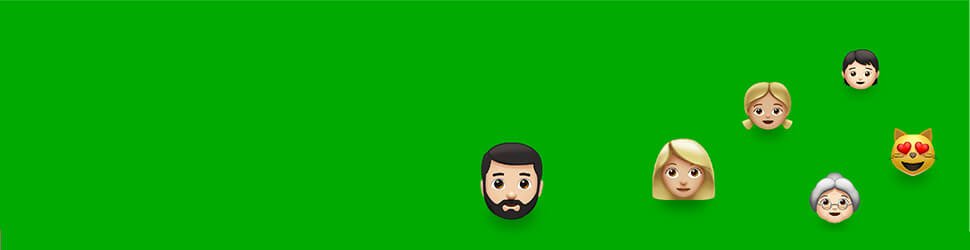
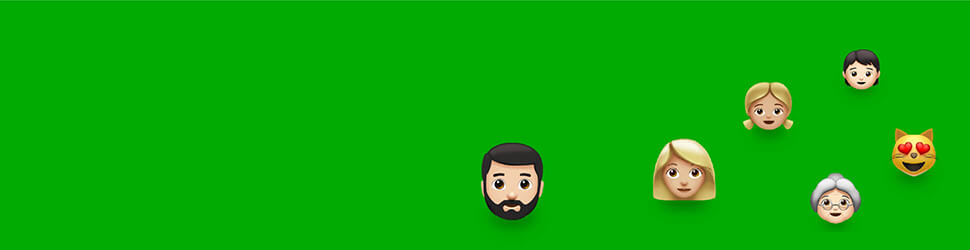
limit bg to 970, min images

diff --git a/src/components/banner/_banner.sass b/src/components/banner/_banner.sass
@@ -18,7 +18,13 @@
     max-width: 970px
 
   &__background-image
-    position: absolute 0
+    position: absolute
+    top: 0
+    bottom: 0
+    left: 50%
+    width: 100%
+    max-width: 970px
+    transform: translate(-50%, 0)
     font-size: 0
     z-index: 1
     pointer-events: none
